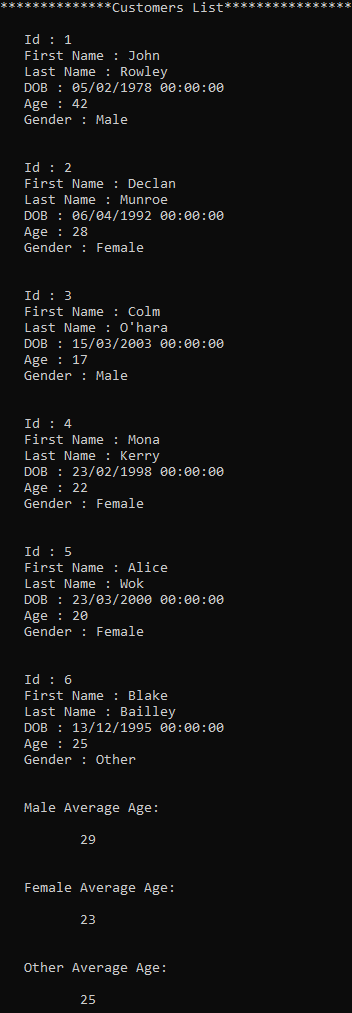
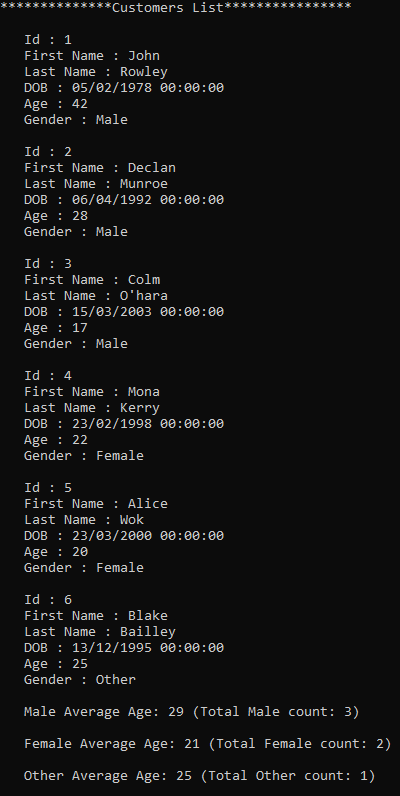
Updated projects to show customers's count in the report.

diff --git a/Console Application/Program.cs b/Console Application/Program.cs
@@ -26,18 +26,20 @@ namespace DesignSolution
             }
         }
 
+        public static int getCount(List<Customers> customers, string gender)
+        {
+            return customers.Where(x => x.Gender == gender).Count();
+        }
+
         public static int CalculateAverage(Customers[] customers, string gender)
         {
             return (int)(DateTime.Now.Year - customers.Where(x => x.Gender == gender).Select(x => x.DOB.Year).ToArray().Average());
         }
 
-        public void PrintReport(int Average, string gender)
+        public void PrintReport(int Average, string gender, int count)
         {
             Console.WriteLine();
-            Console.WriteLine($"   {gender} Average Age:");
-            Console.WriteLine();
-            Console.WriteLine("          " + Average);
-            Console.WriteLine();
+            Console.WriteLine($"   {gender} Average Age: " + Average + $" (Total {gender} count: " + count + ")");
         }
 
         public void PrintCustomerList(List<Customers> customers)
@@ -52,7 +54,6 @@ namespace DesignSolution
                 Console.WriteLine("   DOB : " + item.DOB);
                 Console.WriteLine("   Age : " + item.Current_Age);
                 Console.WriteLine("   Gender : " + item.Gender);
-                Console.WriteLine();
             }
         }
 
@@ -67,9 +68,9 @@ namespace DesignSolution
             program.AddCustomer(Customers_list, "Alice", "Wok", new DateTime(2000, 3, 23), "Female");
             program.AddCustomer(Customers_list, "Blake", "Bailley", new DateTime(1995, 12, 13), "Other");
             program.PrintCustomerList(Customers_list);
-            program.PrintReport(CalculateAverage(Customers_list.ToArray(), "Male"), "Male");
-            program.PrintReport(CalculateAverage(Customers_list.ToArray(), "Female"), "Female");
-            program.PrintReport(CalculateAverage(Customers_list.ToArray(), "Other"), "Other");
+            program.PrintReport(CalculateAverage(Customers_list.ToArray(), "Male"), "Male",getCount(Customers_list,"Male"));
+            program.PrintReport(CalculateAverage(Customers_list.ToArray(), "Female"), "Female", getCount(Customers_list, "Female"));
+            program.PrintReport(CalculateAverage(Customers_list.ToArray(), "Other"), "Other", getCount(Customers_list, "Other"));
             Console.ReadKey();
         }
     }

diff --git a/Application/Customers/Report.cs b/Application/Customers/Report.cs
@@ -23,9 +23,12 @@ namespace Application.Customers {
                 var other_count = await _context.Customer.Where(x => x.Gender == "Other").Select(x => x.DOB.Year).ToArrayAsync();
                 var report = new ReportDTO
                 {
-                    Male = Math.Round(DateTime.Now.Year - male_count.Average(), 2),
-                    Female = Math.Round(DateTime.Now.Year - female_count.Average(), 2),
-                    Other = Math.Round(DateTime.Now.Year - other_count.Average(), 2)
+                    Male_avg_age = Math.Round(DateTime.Now.Year - male_count.Average(), 2),
+                    Male_Count = male_count.Count(),
+                    Female_avg_age = Math.Round(DateTime.Now.Year - female_count.Average(), 2),
+                    Female_Count = female_count.Count(),
+                    Other_avg_age = Math.Round(DateTime.Now.Year - other_count.Average(), 2),
+                    Other_Count = other_count.Count()
                 };
                 return report;
             }

diff --git a/Application/Customers/ReportDTO.cs b/Application/Customers/ReportDTO.cs
@@ -2,8 +2,11 @@ namespace Application.Customers
 {
     public class ReportDTO
     {
-        public double Male { get; set; }
-        public double Female { get; set; }
-        public double Other { get; set; }
+        public double Male_avg_age { get; set; }
+        public int Male_Count { get; set; }
+        public double Female_avg_age { get; set; }
+        public int Female_Count { get; set; }
+        public double Other_avg_age { get; set; }
+        public int Other_Count { get; set; }
     }
 }
